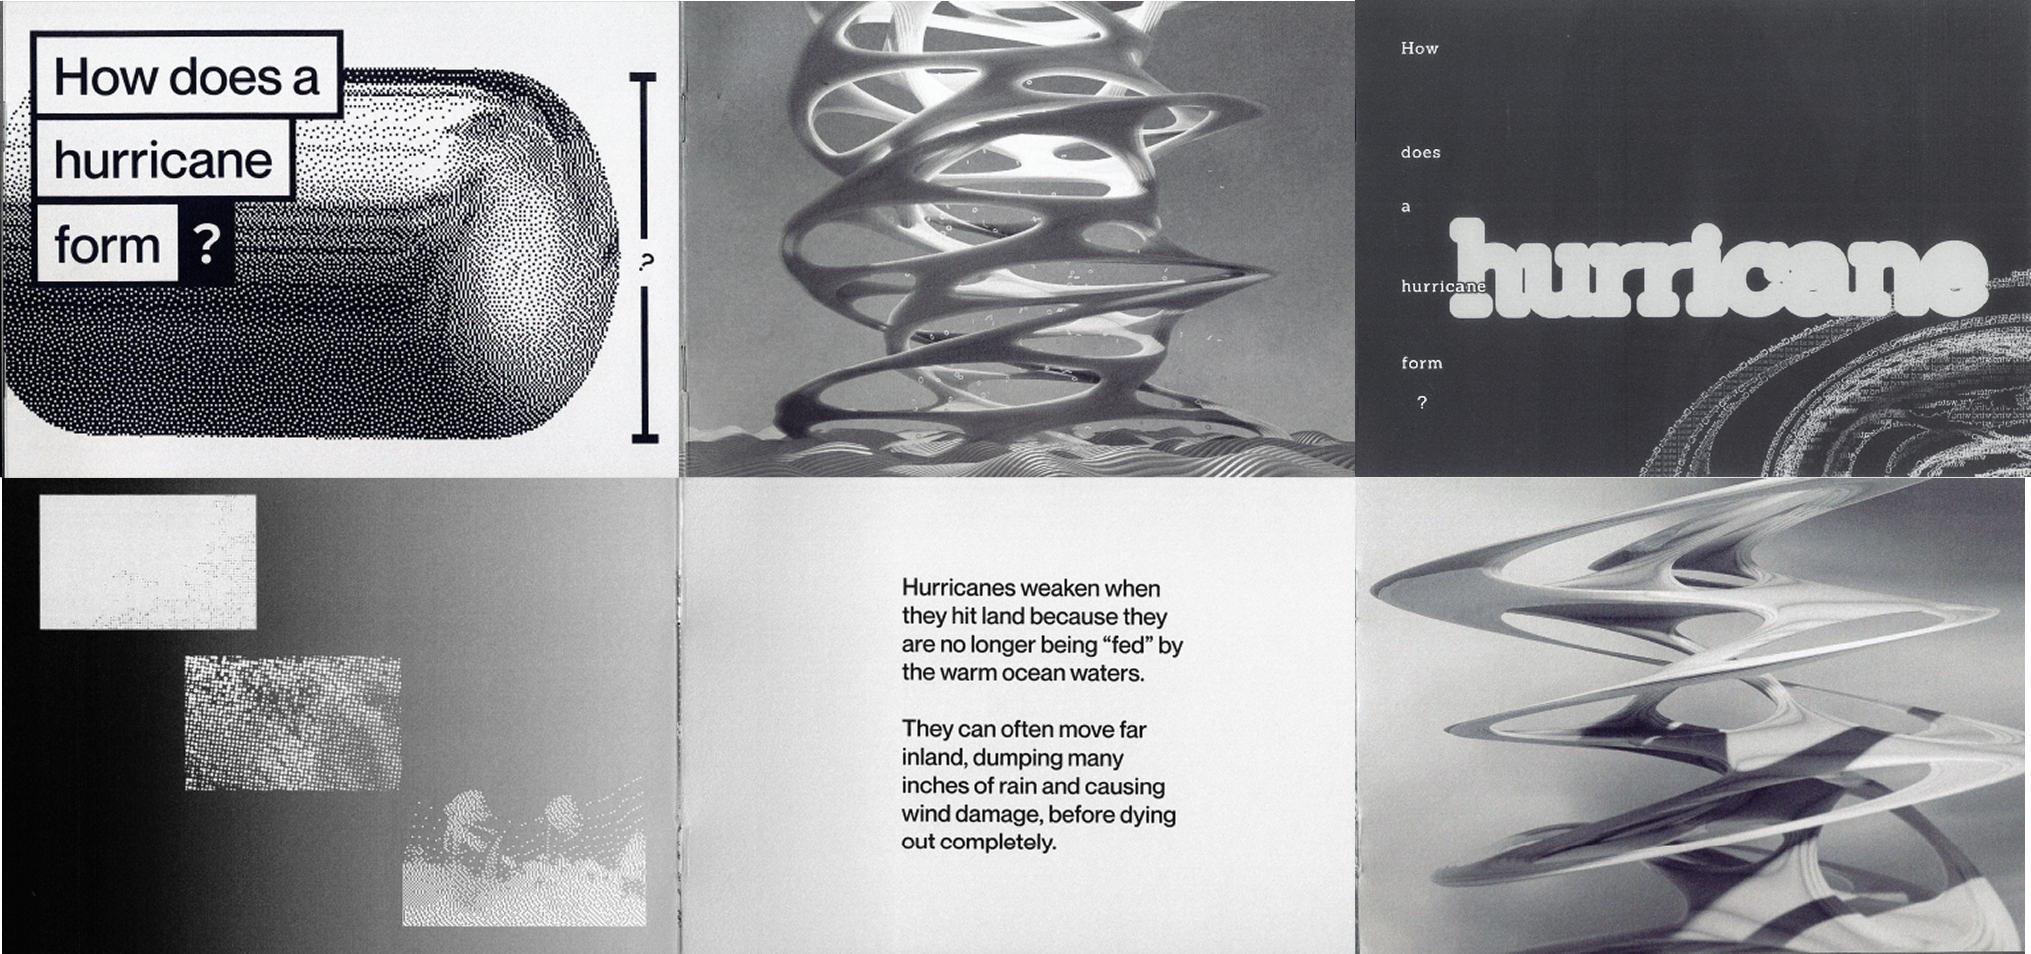
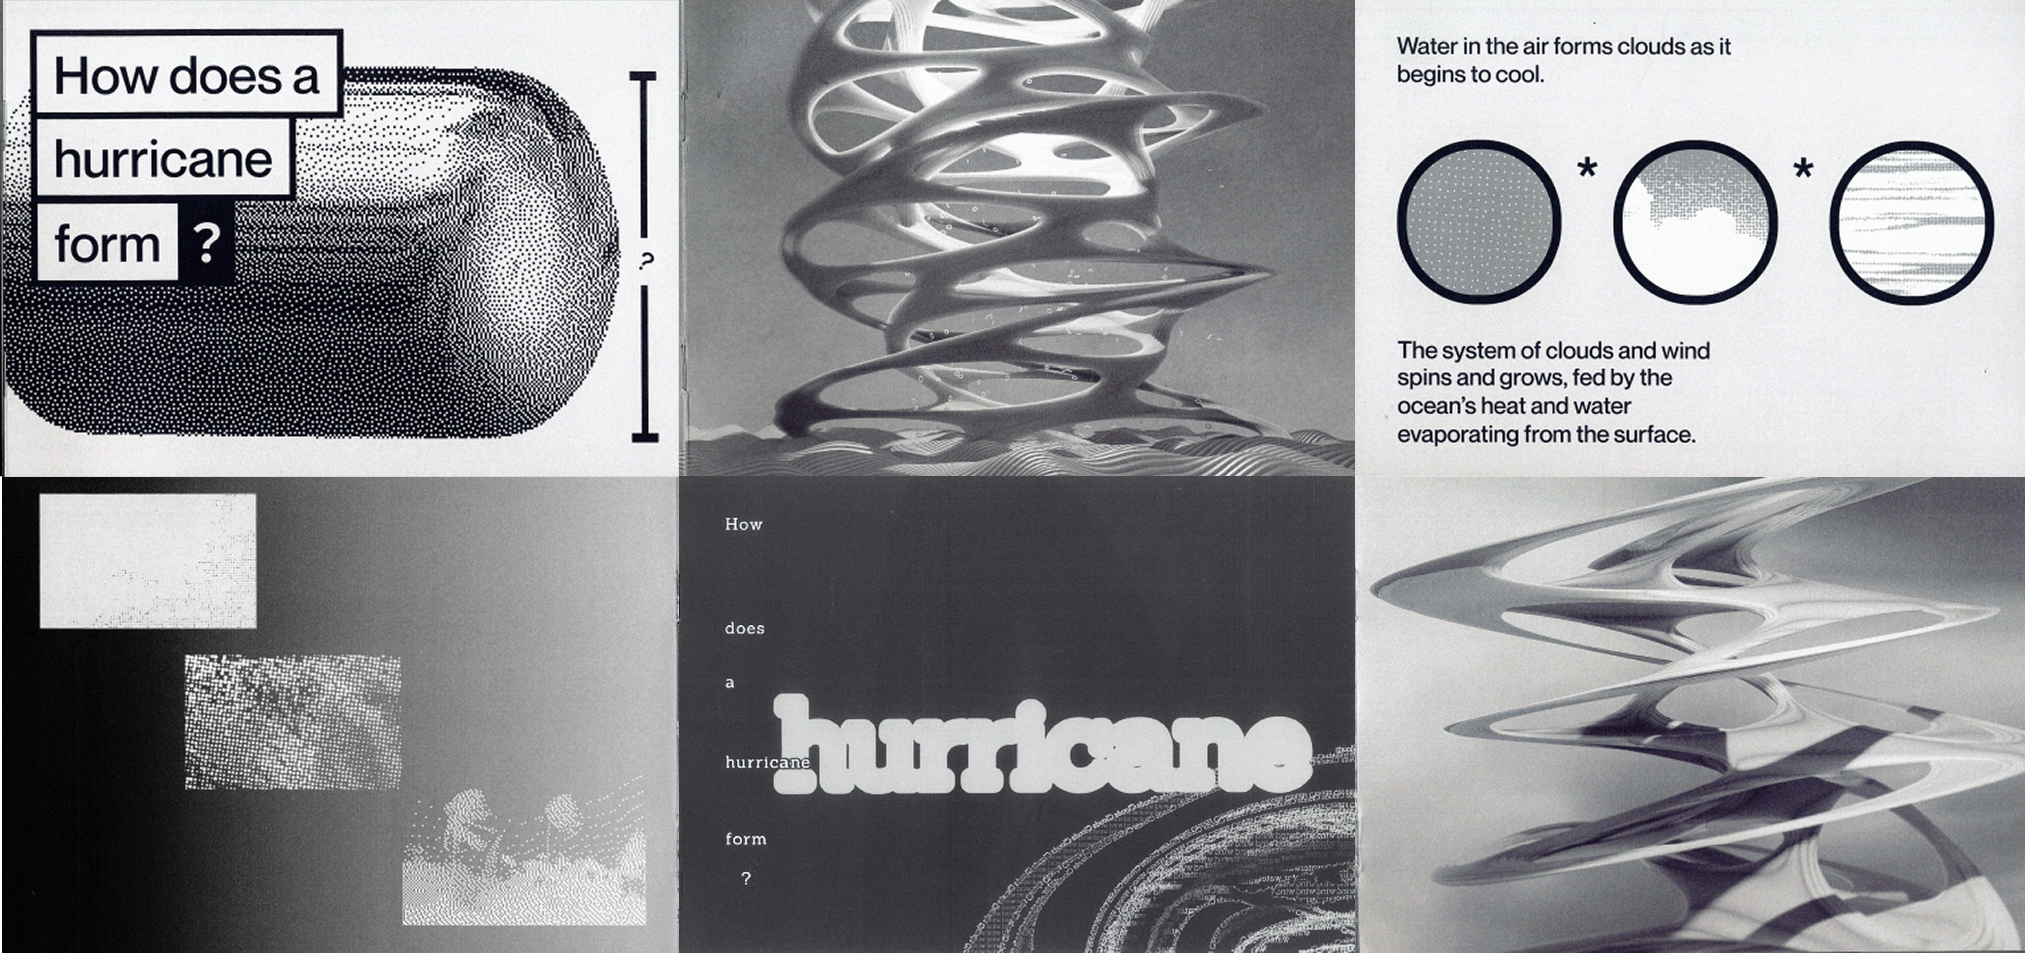
updated hurricane thumbnail

diff --git a/responsive.css b/responsive.css
@@ -108,7 +108,7 @@
 
   /* Listing thumbs (460px–959px): pre-adjustment ARs */
   .card-booklets .card-thumbnail {
-    aspect-ratio: 1.2;
+    aspect-ratio: 1355 / 953; /* match index thumb asset */
   }
 
   .card-tldr .card-thumbnail {
@@ -161,11 +161,6 @@
     scale: 0.9;
     object-fit: cover;
     object-position: center;
-  }
-
-  .card-booklets .card-thumbnail {
-    background-size: cover;
-    background-position: center;
   }
 
   /* Case studies: title + caption stacked on mobile */
@@ -613,10 +608,13 @@
   .card-fs .card-thumbnail,
   .card-superfast .card-thumbnail,
   .card-dance .card-thumbnail,
-  .card-booklets .card-thumbnail,
   .card-tldr .card-thumbnail,
   .card-nijimu .card-thumbnail {
     aspect-ratio: 1;
+  }
+
+  .card-booklets .card-thumbnail {
+    aspect-ratio: 1355 / 953;
   }
 
   .card-fs .card-thumbnail {

diff --git a/style.css b/style.css
@@ -802,10 +802,17 @@ video.pictogram-source{
 }
 
 .card-booklets .card-thumbnail{
-    background-image: url("assets/hurricane/hurricane-cover-new.png");
-    background-size: cover;
-    aspect-ratio: 3000/1900;
+    aspect-ratio: 1355 / 953; /* hurricane-pg-thumbnail-index.png */
     outline: 2px solid #F5F5F5;
+    overflow: hidden;
+}
+
+.card-booklets .card-thumbnail .img-hurricane{
+    width: 100%;
+    height: 100%;
+    display: block;
+    object-fit: cover;
+    object-position: center;
 }
 
 .card-tldr .card-thumbnail{

diff --git a/index.html b/index.html
@@ -245,7 +245,7 @@
             <div class="card card-booklets">
                 <a href="work-hurricane.html">
                     <div class="card-thumbnail">
-                        
+                        <img class="thumb-img img-hurricane" src="assets/hurricane/hurricane-pg-thumbnail-index.png" alt="">
                     </div>
                 </a>
                 <div class="card-text">
